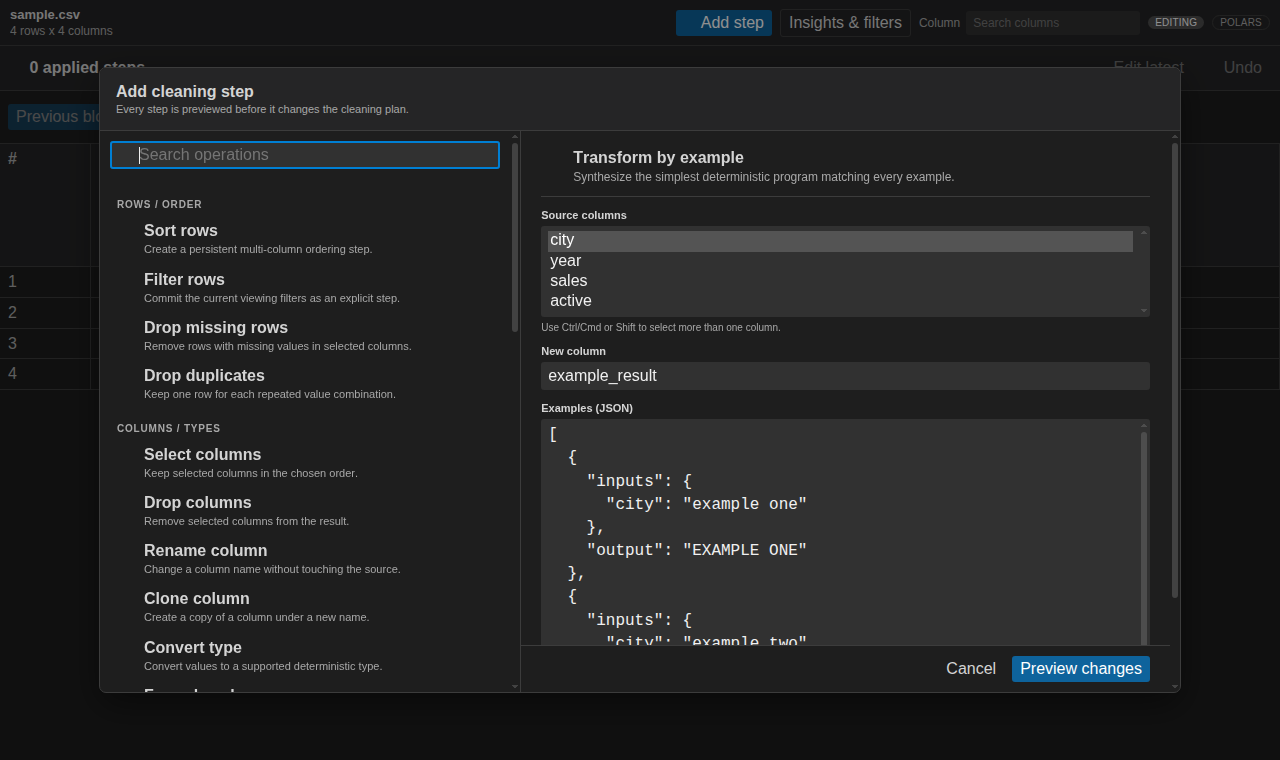
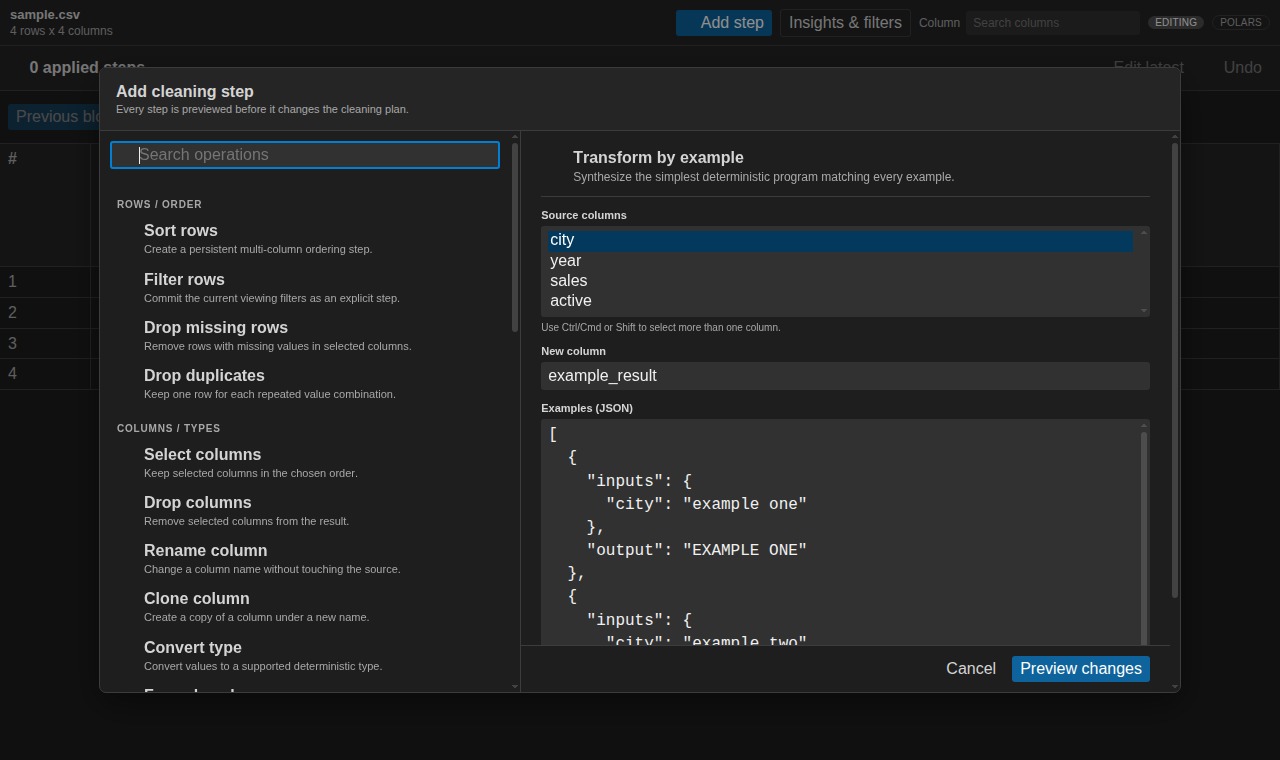
test(visual): normalize native selection colors

Changed region(s): [[0.4062, 0.3026, 0.9062, 0.3329]]

diff --git a/src/webviews/styles.css b/src/webviews/styles.css
@@ -79,6 +79,11 @@ textarea {
   min-width: 0;
 }
 
+select option:checked {
+  color: var(--vscode-list-activeSelectionForeground, #ffffff);
+  background: var(--vscode-list-activeSelectionBackground, #04395e);
+}
+
 textarea {
   resize: vertical;
 }

diff --git a/CHANGELOG.md b/CHANGELOG.md
@@ -63,7 +63,7 @@ All notable changes to Data Explorer are documented here. The project follows Se
 - Saved notebook snapshots no longer treat null numeric cells as zero, and their multi-column sorts honor explicit null placement independently of direction.
 - Visual and accessibility acceptance use the lockfile-pinned Chromium revision, metric-compatible harness font tokens, and always-uploaded CI diffs instead of a moving system-browser/font fallback.
 - Real-kernel acceptance uses a single bounded execution deadline with short message polls, tolerating cold shared-runner imports without hiding a hung kernel.
-- Webview scrollbars now use VS Code theme tokens for consistent native contrast and deterministic rendering across editor and CI hosts.
+- Webview scrollbars and multi-select states now use VS Code theme tokens for consistent native contrast and deterministic rendering across editor and CI hosts.
 - Editor compatibility jobs retry transient VS Code distribution downloads with a bounded backoff.
 
 ### Release status

diff --git a/docs/testing.md b/docs/testing.md
@@ -35,7 +35,7 @@ By-example tests must exercise every candidate family, deterministic tie orderin
 
 ## Visual and accessibility coverage
 
-`npx playwright-core install chromium` installs the browser revision pinned by the lockfile. `npm run build && npm run capture:screenshots` updates the browser baselines from real Polars protocol responses and the production webview bundle using that pinned Chromium unless `CHROME_BIN` is explicitly set. The harness supplies metric-compatible Liberation Sans/Mono values through the standard VS Code font tokens, disables optional shaping, and supplies the standard scrollbar tokens so Linux distribution fallbacks cannot shift geometry. `npm run test:webview-acceptance` writes separate actual images under `tmp/`, fails above a 1% anti-aliasing-tolerant pixel delta, and never overwrites the baselines. CI uploads actual and diff directories even when this step fails. Coverage includes light, dark, high contrast dark/light, 800/1280/1920px widths, and 80/100/150/200% zoom. The wide fixture contains 1,000 rows by 40 columns and supplies five independent 200-row blocks.
+`npx playwright-core install chromium` installs the browser revision pinned by the lockfile. `npm run build && npm run capture:screenshots` updates the browser baselines from real Polars protocol responses and the production webview bundle using that pinned Chromium unless `CHROME_BIN` is explicitly set. The harness supplies metric-compatible Liberation Sans/Mono values through the standard VS Code font tokens, disables optional shaping, and supplies standard scrollbar and list-selection tokens so Linux distribution fallbacks cannot shift geometry or native widget colors. `npm run test:webview-acceptance` writes separate actual images under `tmp/`, fails above a 1% anti-aliasing-tolerant pixel delta, and never overwrites the baselines. CI uploads actual and diff directories even when this step fails. Coverage includes light, dark, high contrast dark/light, 800/1280/1920px widths, and 80/100/150/200% zoom. The wide fixture contains 1,000 rows by 40 columns and supplies five independent 200-row blocks.
 
 The browser acceptance records keyboard cell navigation and resizing, far-column focus restoration, bounded row/column DOM counts, responsive drawer layout, advanced predicate interaction, the complete operation catalog, draft/diff presentation, by-example input/warning states, editable CodeMirror code preview, and apply/discard/edit/undo shortcuts. It verifies that editable fields keep their own undo behavior. Dedicated baselines cover long/Unicode values plus empty, loading, malformed-file error, and runtime-recovery states. Playwright injects axe into all 23 generated editor, notebook, and Code Preview harnesses and fails on every non-minor WCAG violation.
 